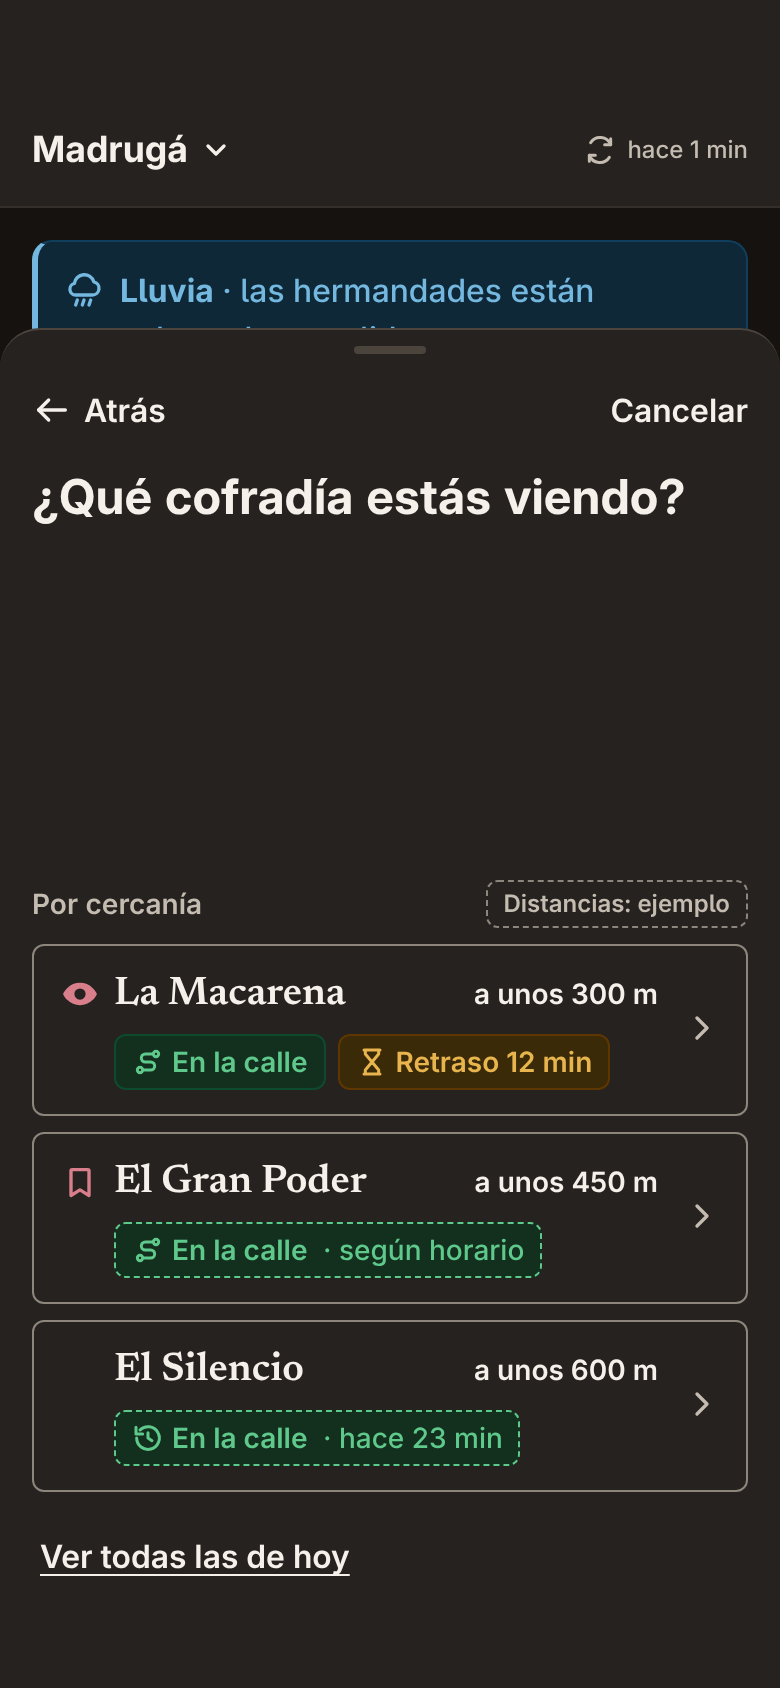
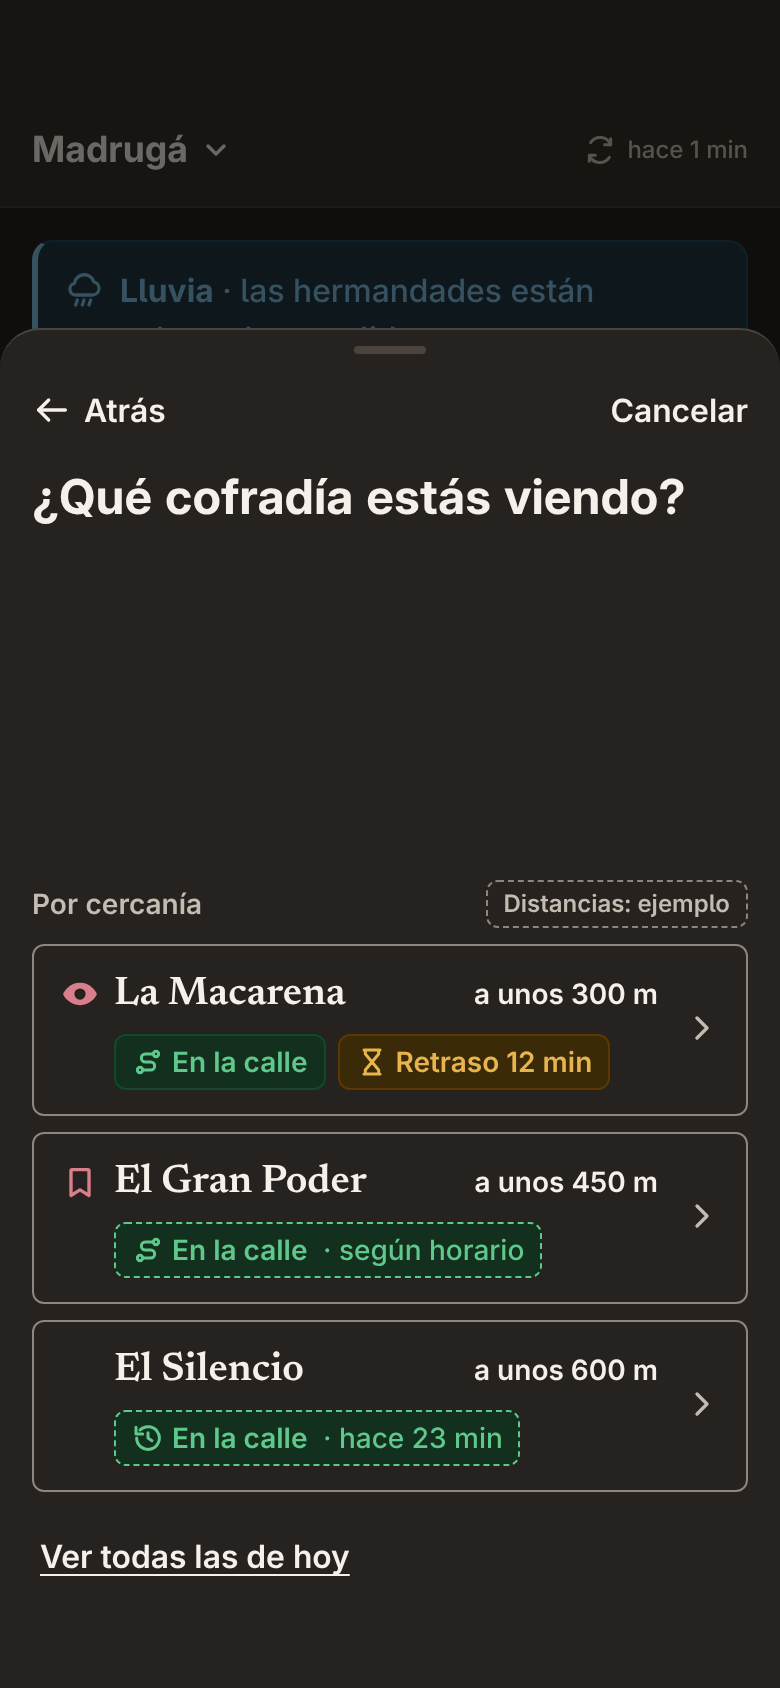
Dar fe y acceso: oscurecido detrás de las hojas que esperan respuesta

Changed region(s): [[0.0308, 0.0616, 0.9846, 0.2156], [0.8, 0.0616, 0.8615, 0.0924], [0.9231, 0.0616, 0.9538, 0.0924]]

diff --git a/docs/design/pantallas/LEEME.md b/docs/design/pantallas/LEEME.md
@@ -156,6 +156,8 @@ Escudo de reserva: iniciales del nombre popular sin artículo (M, GP, ET…).
 
 Reglas que fija: tocar una opción lleva al paso siguiente (sin botón «Continuar»); opciones abajo, al alcance del pulgar, y la pregunta arriba; «Atrás» y «Cancelar» siempre arriba de la hoja; nada preseleccionado.
 
+Hojas: las de los pasos 1 a 4 esperan respuesta, así que tapan la barra de navegación y llevan el oscurecido del sistema detrás (añadido el 15 de octubre de 2026 en BUL-198, ver `8-acceso`). El panel «Hecho» y el aviso del bonus son avisos pasajeros y no llevan capa.
+
 - `dar-fe-1-guia-inicial-claro` — 1 · GUÍA INICIAL, solo la primera vez. Solo «Cancelar»: no hay paso anterior.
 - `dar-fe-2-que-cofradia-{claro,oscuro}` — 2 · ¿QUÉ COFRADÍA? Por cercanía: La Macarena 300 m, El Gran Poder 450 m, El Silencio 600 m. «Atrás» vuelve a Inicio.
 - `dar-fe-2b-que-cofradia-sin-ubicacion-claro` — 2b · SIN UBICACIÓN. Las de la calle por hora de salida y Los Gitanos aparte, «A punto de salir». La hoja sube casi hasta arriba. Marca de «Diste fe» de Esperanza de Triana en tinta (comparte fila con chip rojo).
@@ -190,7 +192,7 @@ Reglas que fija: tocar una opción lleva al paso siguiente (sin botón «Continu
 
 Regla que fija: no se pide nada antes de que haga falta. La cuenta se pide al ir a participar y la ubicación, cuando la persona toca algo que la necesita. Nunca dos veces y nunca con tono de amenaza.
 
-Hojas: la que interrumpe y espera respuesta (Dar fe, ubicación) llega hasta abajo y tapa la barra de navegación, con el fondo oscurecido; la informativa (las del Mapa) se apoya sobre la barra. Así lo dice el README del sistema.
+Hojas: la que interrumpe y espera respuesta (Dar fe, ubicación) llega hasta abajo y tapa la barra de navegación, con el fondo oscurecido; la informativa (las del Mapa) se apoya sobre la barra, sin capa. El panel «Hecho» de Dar fe es un aviso pasajero y tampoco lleva capa. Así lo dice el README del sistema.
 
 - `acceso-1-arranque-{claro,oscuro}` — 1 · ARRANQUE (P-01). Solo «Cofradar» en Newsreader. Solo la primera vez o sin datos guardados; si hay datos, se abre el último estado conocido.
 - `acceso-2-introduccion-{claro,oscuro}` — 2 · INTRODUCCIÓN (P-02), solo la primera vez. Una pantalla editorial con tres ideas y un único botón, «Empezar»; sin «Saltar».
